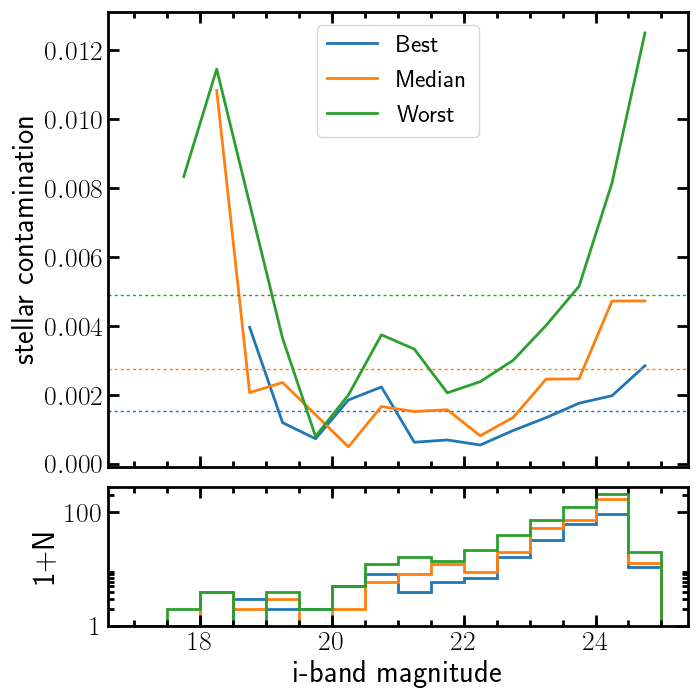
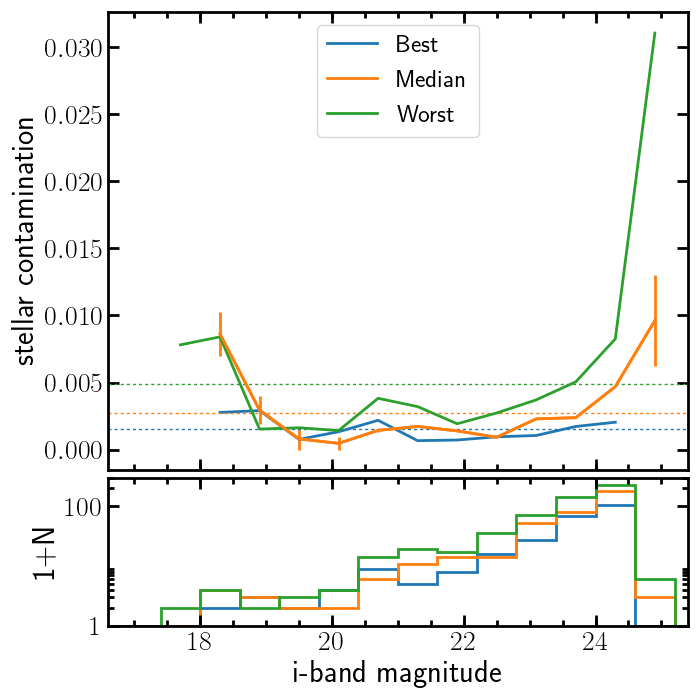
Poisson errorbars

diff --git a/purity.py b/purity.py
@@ -117,7 +117,7 @@ def plot(cosmos, good, stars, galaxies, rms=0.37, plot_path='plots',
     The first four arguments are dictionaries with seeing as keys
 
     """
-    magbins = arange(15, 25.1, 0.5)
+    magbins = arange(15, 26, 0.6)
     mag = (magbins[:-1]+magbins[1:]) / 2
     keys = ('best', 'median', 'worst')
     overall = {key: 0 for key in keys}
@@ -142,12 +142,19 @@ def plot(cosmos, good, stars, galaxies, rms=0.37, plot_path='plots',
         nstars = hax.hist(imag[stars[key]], magbins, histtype='step',
                           lw=2, color=color, log=True, bottom=1)[0]
         ngals = histogram(imag[galaxies[key]], magbins)[0]
+        # Poisson errorbars
+        err = 1 / nstars**0.5 / ntot
+        print('nstars = {0}'.format(nstars))
+        print('err = {0}'.format(err))
         if show_weights:
             label = '{0}-n'.format(key.capitalize())
         else:
             label = key.capitalize()
         ax.plot(mag[nstars > 0], (nstars/ntot)[nstars > 0],
                 '-', color=color, label=label)
+        if key == 'median':
+            ax.errorbar(mag[nstars > 0], (nstars/ntot)[nstars > 0],
+                        yerr=err[nstars > 0], fmt='-', color=color)
         #ax.plot(mag, ngals/ntot, '--', label='{0} galaxies'.format(key))
         # now weighted fractions
         weight = 1 / (cat['ishape_hsm_regauss_sigma']**2 + rms**2)
